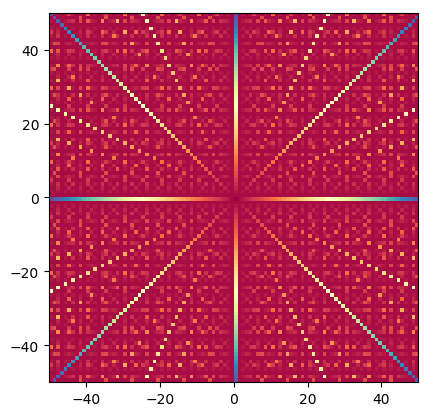
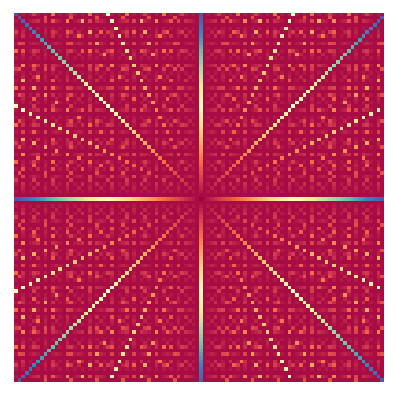
gcd: make the plot transparent
Remove also the border and the tick and labels on the axis.

diff --git a/gcd.py b/gcd.py
@@ -9,7 +9,7 @@
 # Copyright (C) 2019 Davide Madrisan <davide.madrisan.gmail.com>
 
 from math import gcd
-import matplotlib.pylab as plt
+import matplotlib.pyplot as plt
 import numpy as np
 
 def main():
@@ -21,14 +21,18 @@ def main():
     fig = plt.figure()
     ax = fig.add_subplot(1, 1, 1)
     ax.set_aspect('equal')
+    for side in ['left', 'top', 'right', 'bottom']:
+        ax.spines[side].set_visible(False)
 
     plt.imshow(matrix,
                interpolation='nearest',
                cmap=plt.cm.Spectral,
                extent=(-radius, radius,
                        -radius, radius))
+    plt.xticks([])
+    plt.yticks([])
 
-    plt.savefig('gcd.png', bbox_inches='tight')
+    plt.savefig('gcd.png', bbox_inches='tight', transparent=True)
 
 if __name__ == '__main__':
     main()
